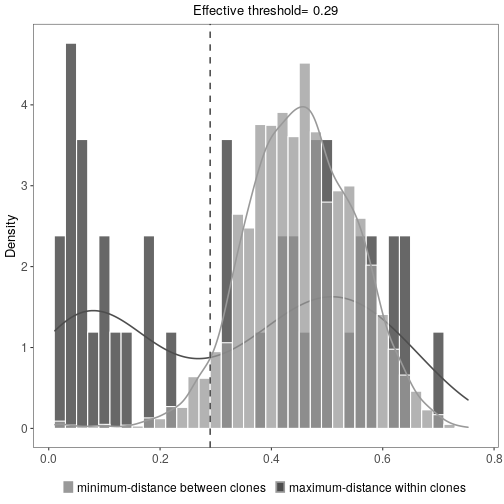
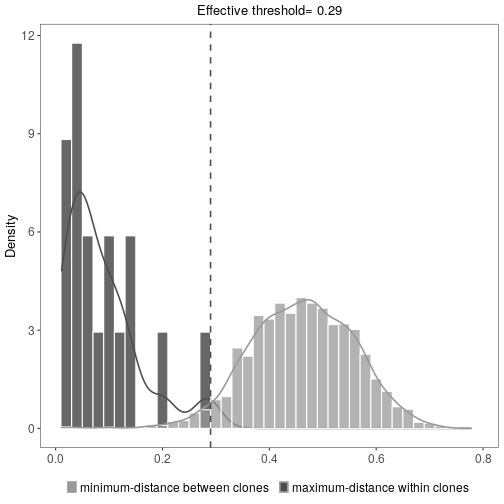
doc changes.

diff --git a/docs/vignettes/Scoper-Vignette.md b/docs/vignettes/Scoper-Vignette.md
@@ -180,7 +180,7 @@ glimpse(results_db)
 ```
 
 ```r
-# Plot a histogram of inter clonal distances
+# Plot a histogram of inter and intra clonal distances
 plot(results, binwidth=0.02)
 ```
 
@@ -234,19 +234,39 @@ and V/J mutation profiles. Technical details can be found in:
         identification of B cell clonal families from next-generation sequencing data,
         bioRxiv doi: 10.1101/788620.
 
-The following example calls the `spectralClones` function using the same (optional) threshold used 
-previously to defined clones using the hierachical approach:
+The following examples calls the `spectralClones` function with(out) the same 
+(optional) threshold used previously to define clones using the hierachical approach.
+The results data.frame, summary plots, and summary table are accessed in the 
+same manner as shown above using the hierachical approach.
 
 
 ```r
-# Clonal assignment using the spectral clustering
+# Clonal assignment using the spectral clustering method novj
+results <- spectralClones(ExampleDb, method="novj")
+# Plot a histogram of inter and intra clonal distances
+plot(results, binwidth=0.02)
+```
+
+![plot of chunk Scoper-Vignette-6](figure/Scoper-Vignette-6-1.png)
+
+
+```r
+# Clonal assignment using the spectral clustering method novj with threshold
+results <- spectralClones(ExampleDb, method="novj",
+                          threshold=0.15)
+# Plot a histogram of inter and intra clonal distances
+plot(results, binwidth=0.02)
+```
+
+![plot of chunk Scoper-Vignette-7](figure/Scoper-Vignette-7-1.png)
+
+
+```r
+# Clonal assignment using the spectral clustering method vj
 results <- spectralClones(ExampleDb, method="vj",
                           threshold=0.15,
                           germline="germline_alignment_d_mask")
 ```
-
-The results data.frame, summary plots, and summary table are accessed in the same manner as shown 
-above using the hierachical approach.
 
 
 ```r
@@ -277,11 +297,11 @@ glimpse(results_db)
 ```
 
 ```r
-# Plot a histogram of inter clonal distances
+# Plot a histogram of inter and intra clonal distances
 plot(results, binwidth=0.02)
 ```
 
-![plot of chunk Scoper-Vignette-7](figure/Scoper-Vignette-7-1.png)
+![plot of chunk Scoper-Vignette-9](figure/Scoper-Vignette-9-1.png)
 
 ```r
 # Get summary data.frame
